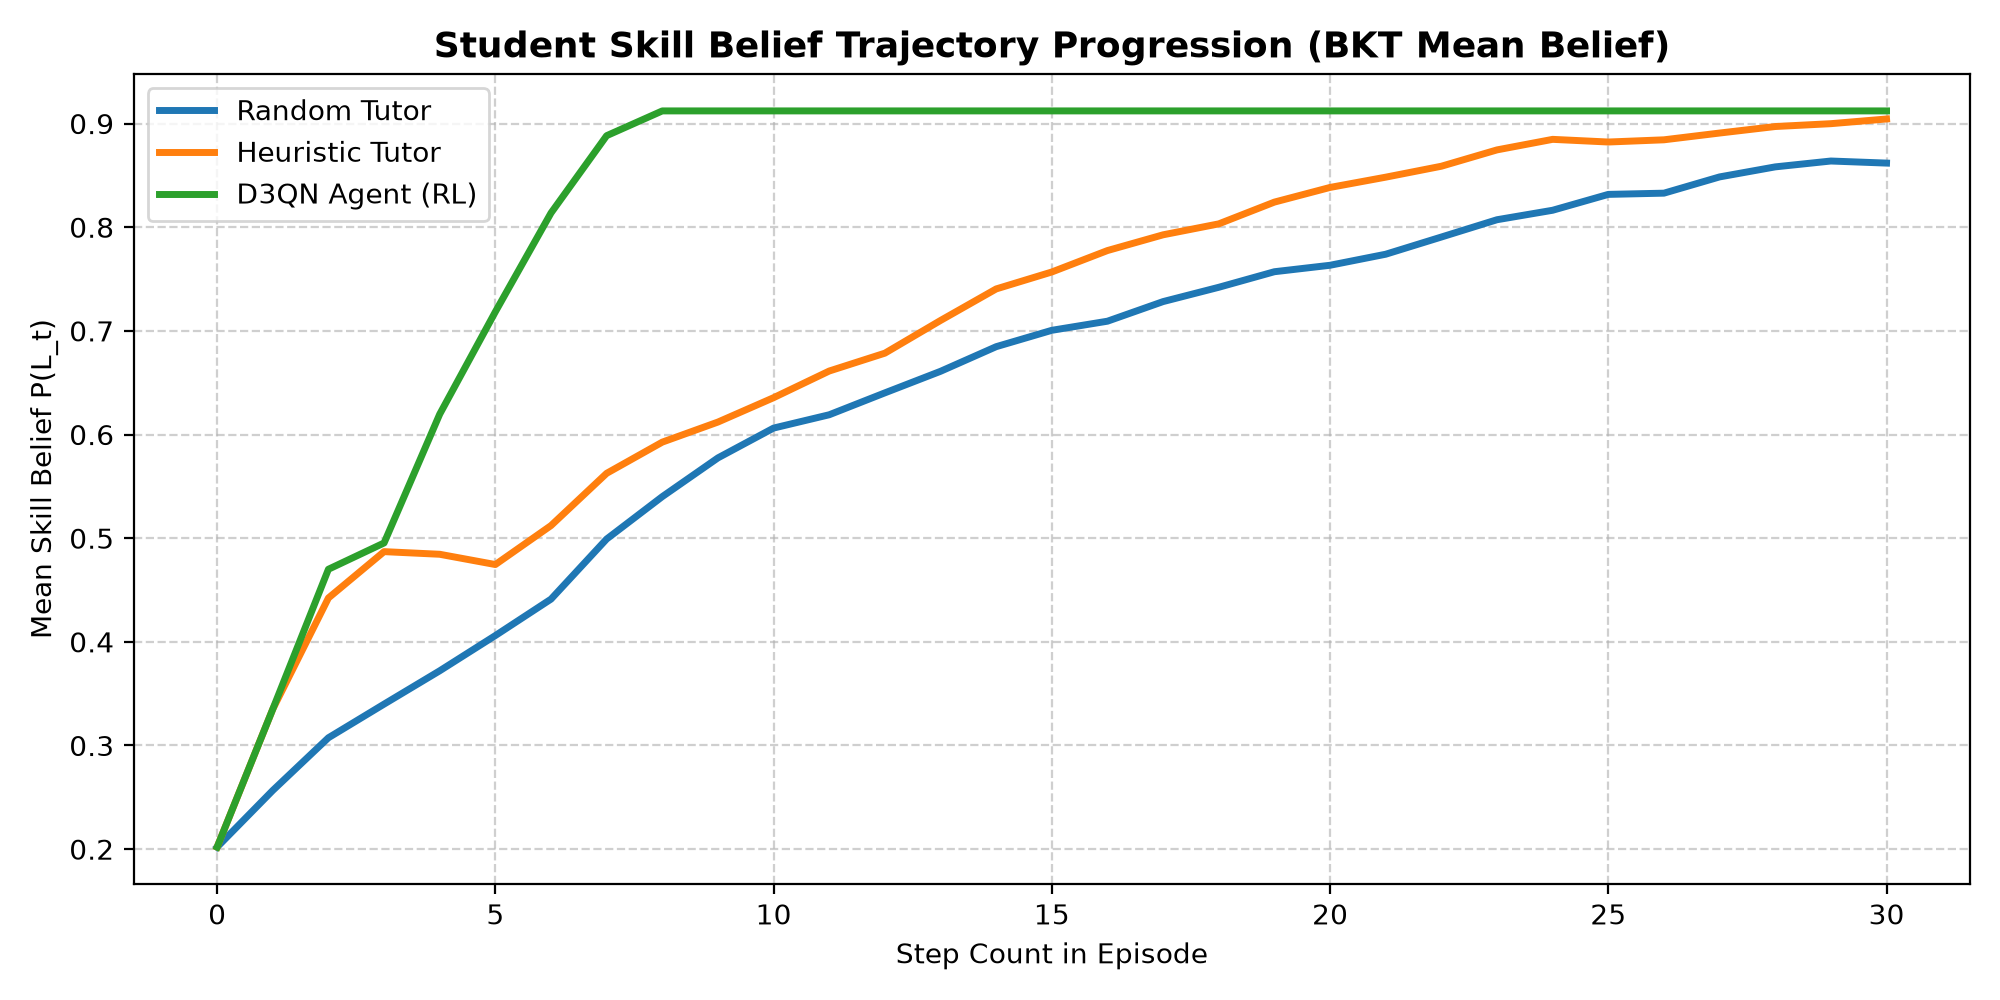
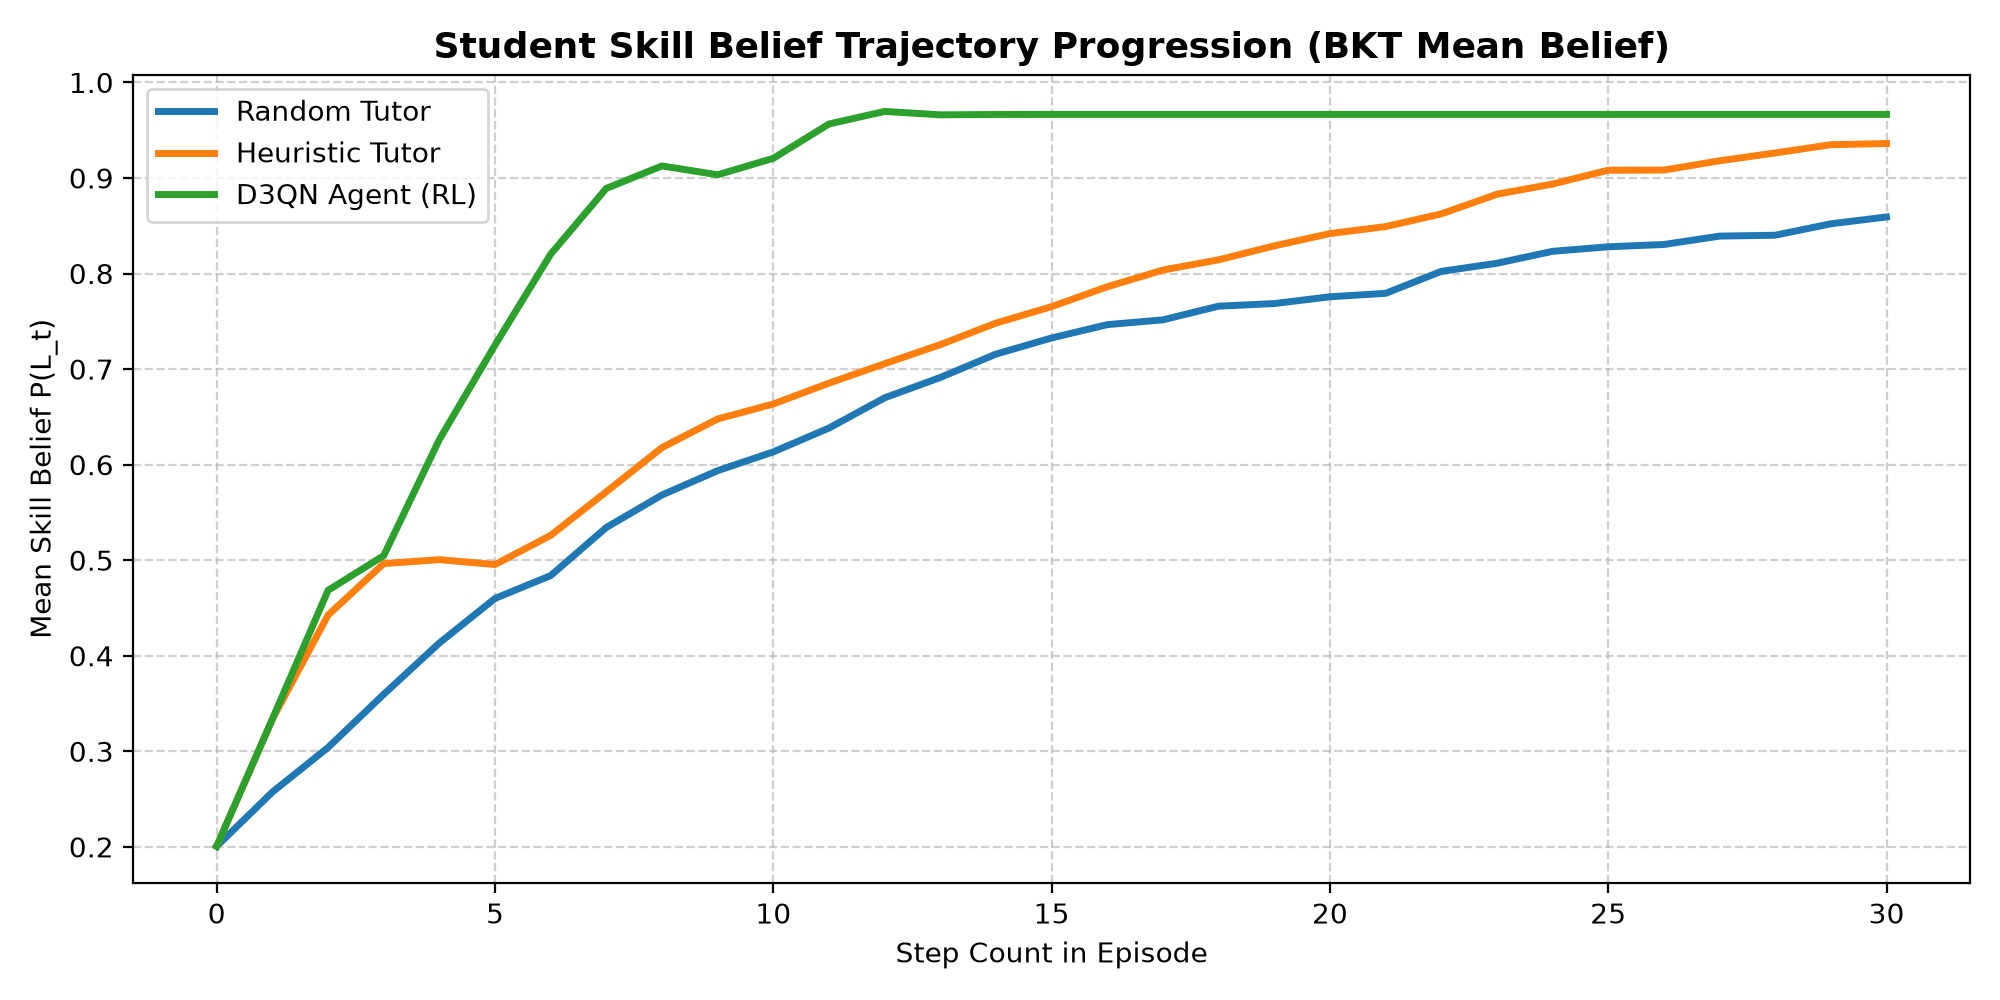
refactor: update BKT engine and POMDP env to support 4-tier math curriculum

diff --git a/src/pomdp_env.py b/src/pomdp_env.py
@@ -268,11 +268,12 @@ class POMDPTutorEnv(gym.Env):
             ANSI formatted string output.
         """
         beliefs = self.bkt_engine.get_beliefs()
+        b_str = ", ".join(f"{b:.2f}" for b in beliefs)
         output = (
             f"Step: {self.current_step:2d}/{self.max_steps:2d} | "
             f"Action: {self.ACTION_MAP.get(self.last_action, 'N/A')} | "
             f"Mean Belief: {self.bkt_engine.get_mean_belief():.3f} | "
-            f"Skill Beliefs: [{beliefs[0]:.2f}, {beliefs[1]:.2f}, {beliefs[2]:.2f}]"
+            f"KC Beliefs: [{b_str}]"
         )
         if self.render_mode in ("human", "ansi"):
             print(output)
@@ -280,10 +281,10 @@ class POMDPTutorEnv(gym.Env):
         return None
 
     def _get_obs(self) -> np.ndarray:
-        """Constructs 8-dimensional observation vector.
+        """Constructs 9-dimensional observation vector.
 
         Returns:
-            np.ndarray: Vector of shape (8,) with dtype float32.
+            np.ndarray: Vector of shape (9,) with dtype float32.
         """
         beliefs = self.bkt_engine.get_beliefs()
         mean_b = self.bkt_engine.get_mean_belief()
@@ -291,20 +292,16 @@ class POMDPTutorEnv(gym.Env):
         norm_step = min(self.current_step / float(self.max_steps), 1.0)
         norm_last_action = self.last_action / 4.0
 
-        obs = np.array(
-            [
-                beliefs[0],
-                beliefs[1],
-                beliefs[2],
-                mean_b,
-                rolling_acc,
-                self.last_friction,
-                norm_step,
-                norm_last_action,
-            ],
-            dtype=np.float32,
-        )
-        return obs
+        obs_list = list(beliefs) + [
+            mean_b,
+            rolling_acc,
+            self.last_friction,
+            norm_step,
+            norm_last_action,
+        ]
+
+        return np.array(obs_list, dtype=np.float32)
+
 
     def _get_info(self) -> Dict[str, Any]:
         """Constructs step info dictionary.

diff --git a/src/evaluator.py b/src/evaluator.py
@@ -40,11 +40,12 @@ class POMDPHeuristicTutor(BaseTutor):
         Returns:
             int: Selected action index.
         """
-        if len(observation) < 8:
+        if len(observation) < 9:
             return 0
 
-        mean_belief = float(observation[3])
-        last_correct = float(observation[4])
+        mean_belief = float(observation[4])
+        last_correct = float(observation[5])
+
 
         # Rule 1: If mean belief is low, present Worked Example
         if mean_belief < 0.35:
@@ -169,13 +170,18 @@ def run_pomdp_benchmark(
     env = POMDPTutorEnv(max_steps=30)
 
     # 1. Load or train D3QN agent
-    if not os.path.exists(model_path):
-        print(f"Model path '{model_path}' not found. Training D3QN agent...")
-        train_d3qn(env, total_episodes=500, save_path=model_path, seed=seed)
+    d3qn_agent = D3QNAgent(state_dim=9, action_dim=5, seed=seed)
+    try:
+        if not os.path.exists(model_path):
+            raise FileNotFoundError(f"Model path {model_path} does not exist.")
+        d3qn_agent.load(model_path)
+    except Exception as e:
+        print(f"Model load failed ({e}). Retraining D3QN agent for 9D environment...")
+        train_d3qn(env, total_episodes=5000, save_path=model_path, seed=seed)
+        d3qn_agent.load(model_path)
 
-    d3qn_agent = D3QNAgent(state_dim=8, action_dim=5, seed=seed)
-    d3qn_agent.load(model_path)
     d3qn_tutor = D3QNTutor(d3qn_agent)
+
 
     random_tutor = RandomTutor(env.action_space, seed=seed)
     heuristic_tutor = POMDPHeuristicTutor()

diff --git a/src/d3qn_agent.py b/src/d3qn_agent.py
@@ -40,7 +40,8 @@ class DuelingDQN(nn.Module):
         Q(s, a) = V(s) + (A(s, a) - 1/|A| * sum_a' A(s, a'))
     """
 
-    def __init__(self, state_dim: int = 8, action_dim: int = 5, hidden_dim: int = 128) -> None:
+    def __init__(self, state_dim: int = 9, action_dim: int = 5, hidden_dim: int = 128) -> None:
+
         """Initializes DuelingDQN network architecture.
 
         Args:
@@ -180,7 +181,7 @@ class D3QNAgent:
 
     def __init__(
         self,
-        state_dim: int = 8,
+        state_dim: int = 9,
         action_dim: int = 5,
         learning_rate: float = 1e-4,
         gamma: float = 0.99,
@@ -189,6 +190,7 @@ class D3QNAgent:
         seed: int = 42,
         device: Optional[str] = None,
     ) -> None:
+
         """Initializes D3QNAgent.
 
         Args:
@@ -401,7 +403,8 @@ def train_d3qn(
         D3QNAgent: Trained agent instance.
     """
     set_d3qn_seeds(seed)
-    agent = D3QNAgent(state_dim=8, action_dim=5, learning_rate=1e-4, buffer_capacity=100000, seed=seed)
+    agent = D3QNAgent(state_dim=9, action_dim=5, learning_rate=1e-4, buffer_capacity=100000, seed=seed)
+
 
     eps_start = 1.0
     eps_min = 0.05

diff --git a/src/bkt_engine.py b/src/bkt_engine.py
@@ -6,9 +6,11 @@ maintains and updates probabilistic belief states over unobservable student skil
 
 from typing import Dict, List, Optional, Union
 import numpy as np
+from src.curriculum import KC_NAMES
 
 
 class BKTParams:
+
     """Parameters governing Bayesian Knowledge Tracing updates for a skill component.
 
     Attributes:
@@ -58,11 +60,8 @@ class BKTEngine:
         beliefs (np.ndarray): Current belief state vector P(L_t = 1) of shape (num_skills,).
     """
 
-    DEFAULT_SKILLS: List[str] = [
-        "Addition & Subtraction",
-        "Multiplication & Division",
-        "Algebra & Exponents",
-    ]
+    DEFAULT_SKILLS: List[str] = list(KC_NAMES)
+
 
     def __init__(
         self,

diff --git a/tests/test_env.py b/tests/test_env.py
@@ -47,7 +47,7 @@ def test_pomdp_env_space_specification() -> None:
     assert env.action_space.n == 5
 
     obs_shape = env.observation_space.shape
-    assert obs_shape == (8,)
+    assert obs_shape == (9,)
     assert env.observation_space.dtype == np.float32
 
 
@@ -56,10 +56,11 @@ def test_pomdp_env_step_sequence() -> None:
     env = POMDPTutorEnv(max_steps=30)
     obs, info = env.reset(seed=42)
 
-    assert obs.shape == (8,)
+    assert obs.shape == (9,)
     assert np.all(obs >= 0.0) and np.all(obs <= 1.0)
     assert "beliefs" in info
     assert "mean_belief" in info
+
 
     # Step through all 5 discrete actions
     for action in range(5):
